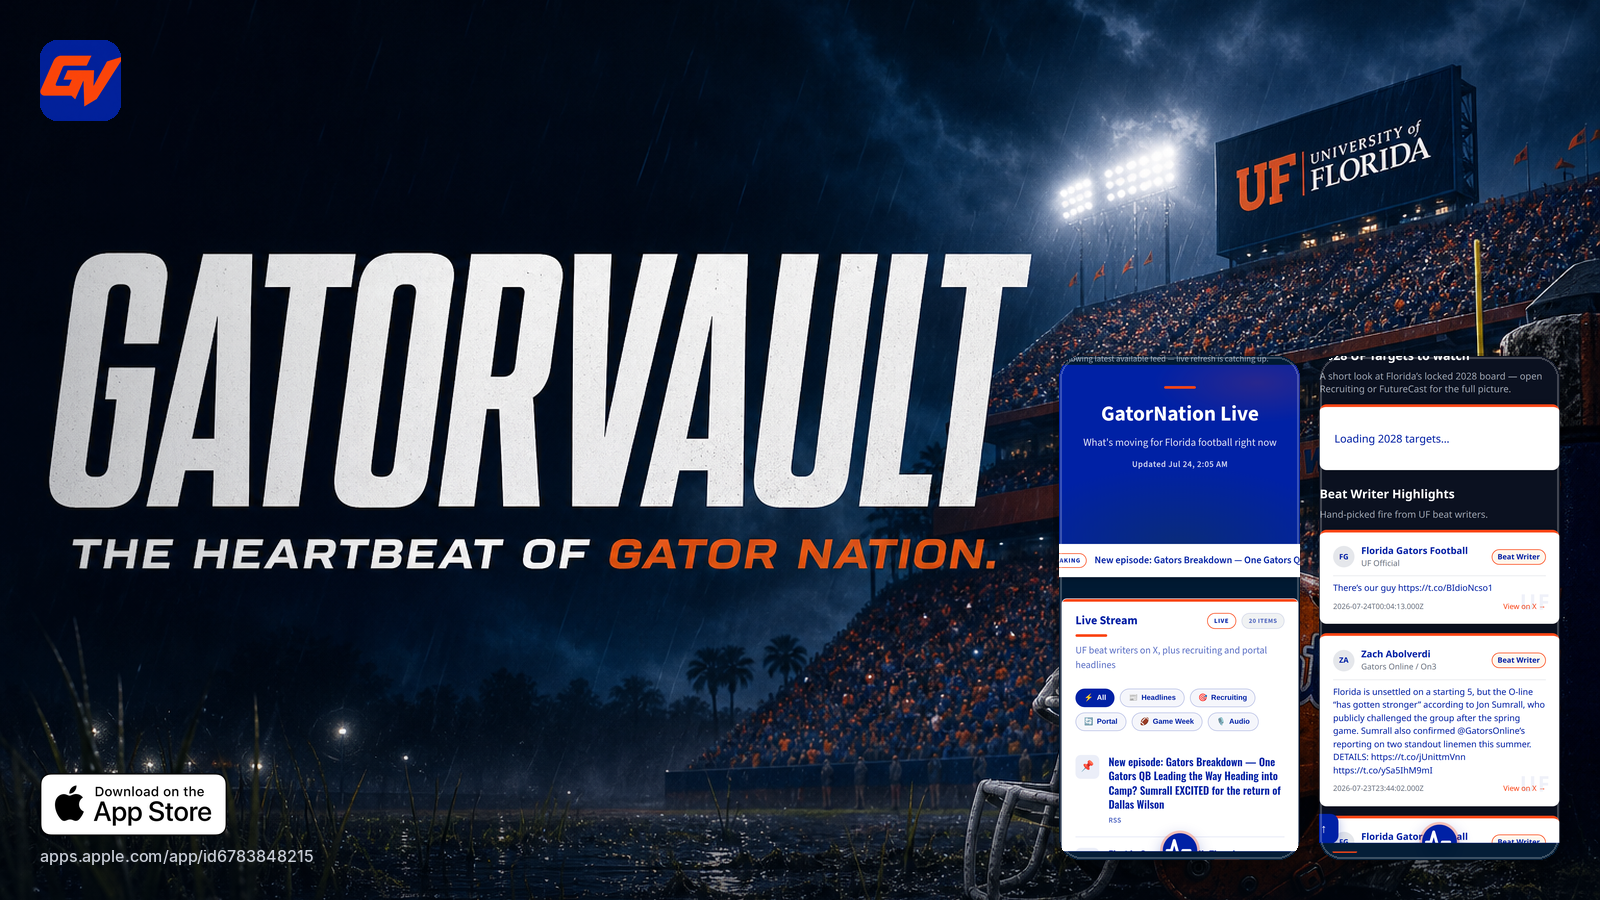
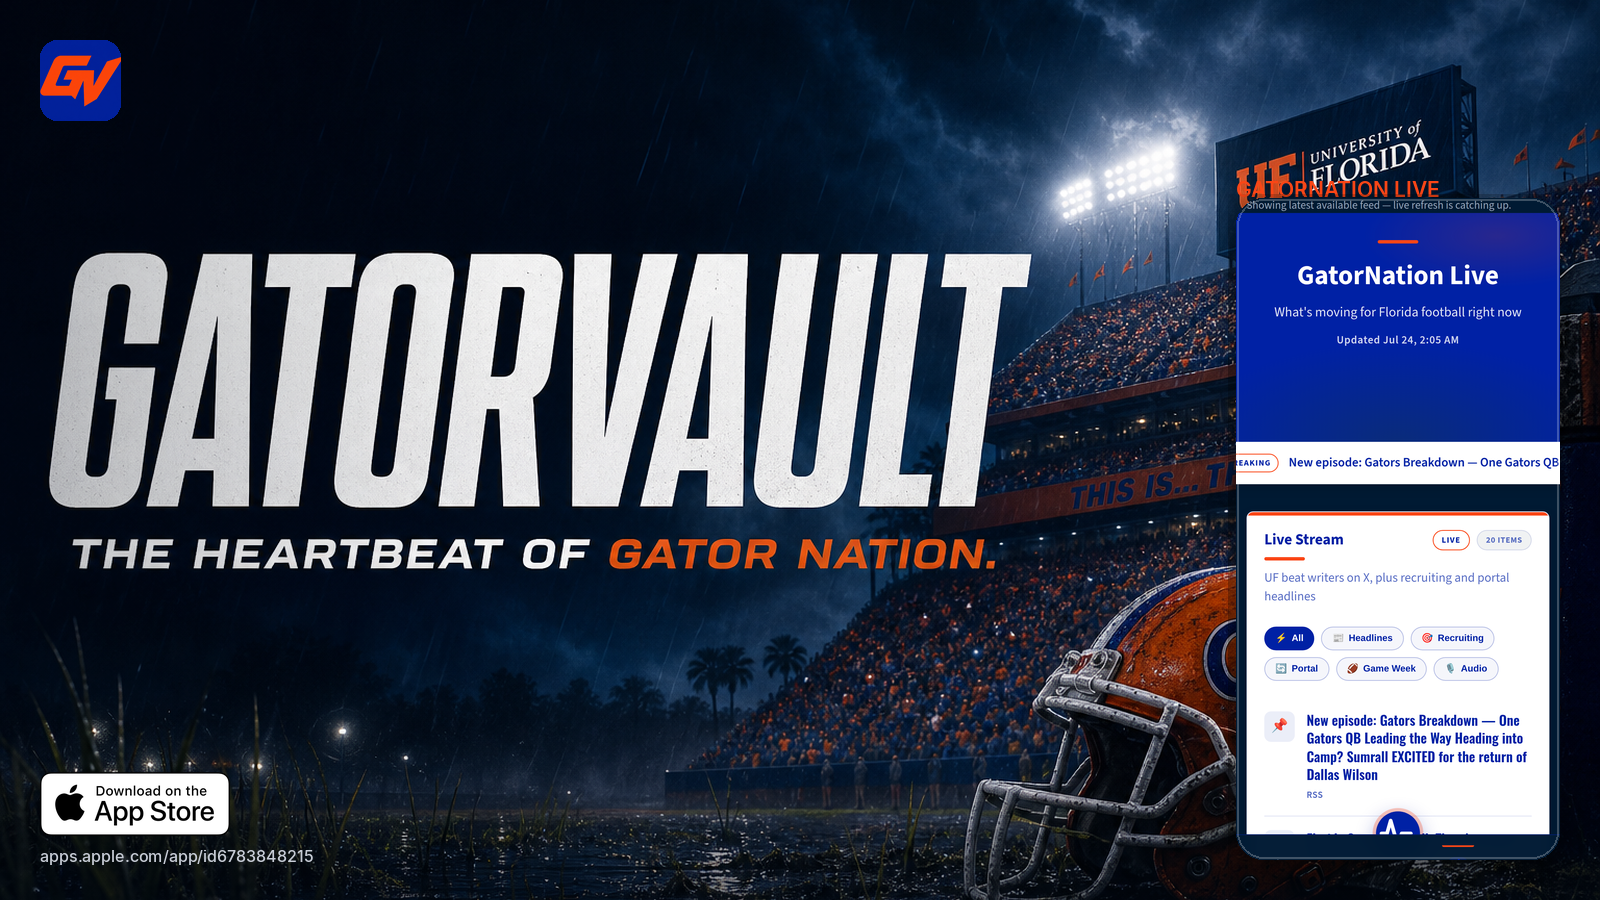
docs(promo): one large readable phone per background creative

Changed region(s): [[0.6562, 0.1867, 1.0, 0.9644], [0.0312, 0.8711, 0.1562, 0.9333]]

diff --git a/docs/promo/README.md b/docs/promo/README.md
@@ -1,13 +1,10 @@
 # GatorVault App Store social pack
 
-## Main (kept)
-`gatorvault-twitter-facebook-1600x900.png` — Schedule large on right
-
-## Other posts (readable phones, stadium still open above)
-| File | Screens | Size |
-|---|---|---|
-| `gatorvault-twitter-background-1600x900.png` | Live + Targets | ~half height, lower right |
-| `gatorvault-facebook-og-1200x630.png` | Live | ~half height, lower right |
-| `gatorvault-square-1080.png` | Targets | ~half height, lower right |
+| File | What’s on it |
+|---|---|
+| `gatorvault-twitter-facebook-1600x900.png` | **Main** — Schedule (kept) |
+| `gatorvault-twitter-background-1600x900.png` | Live — large phone, stadium above |
+| `gatorvault-facebook-og-1200x630.png` | Live — large phone |
+| `gatorvault-square-1080.png` | 2028 Targets — large phone |
 
 https://apps.apple.com/app/id6783848215
